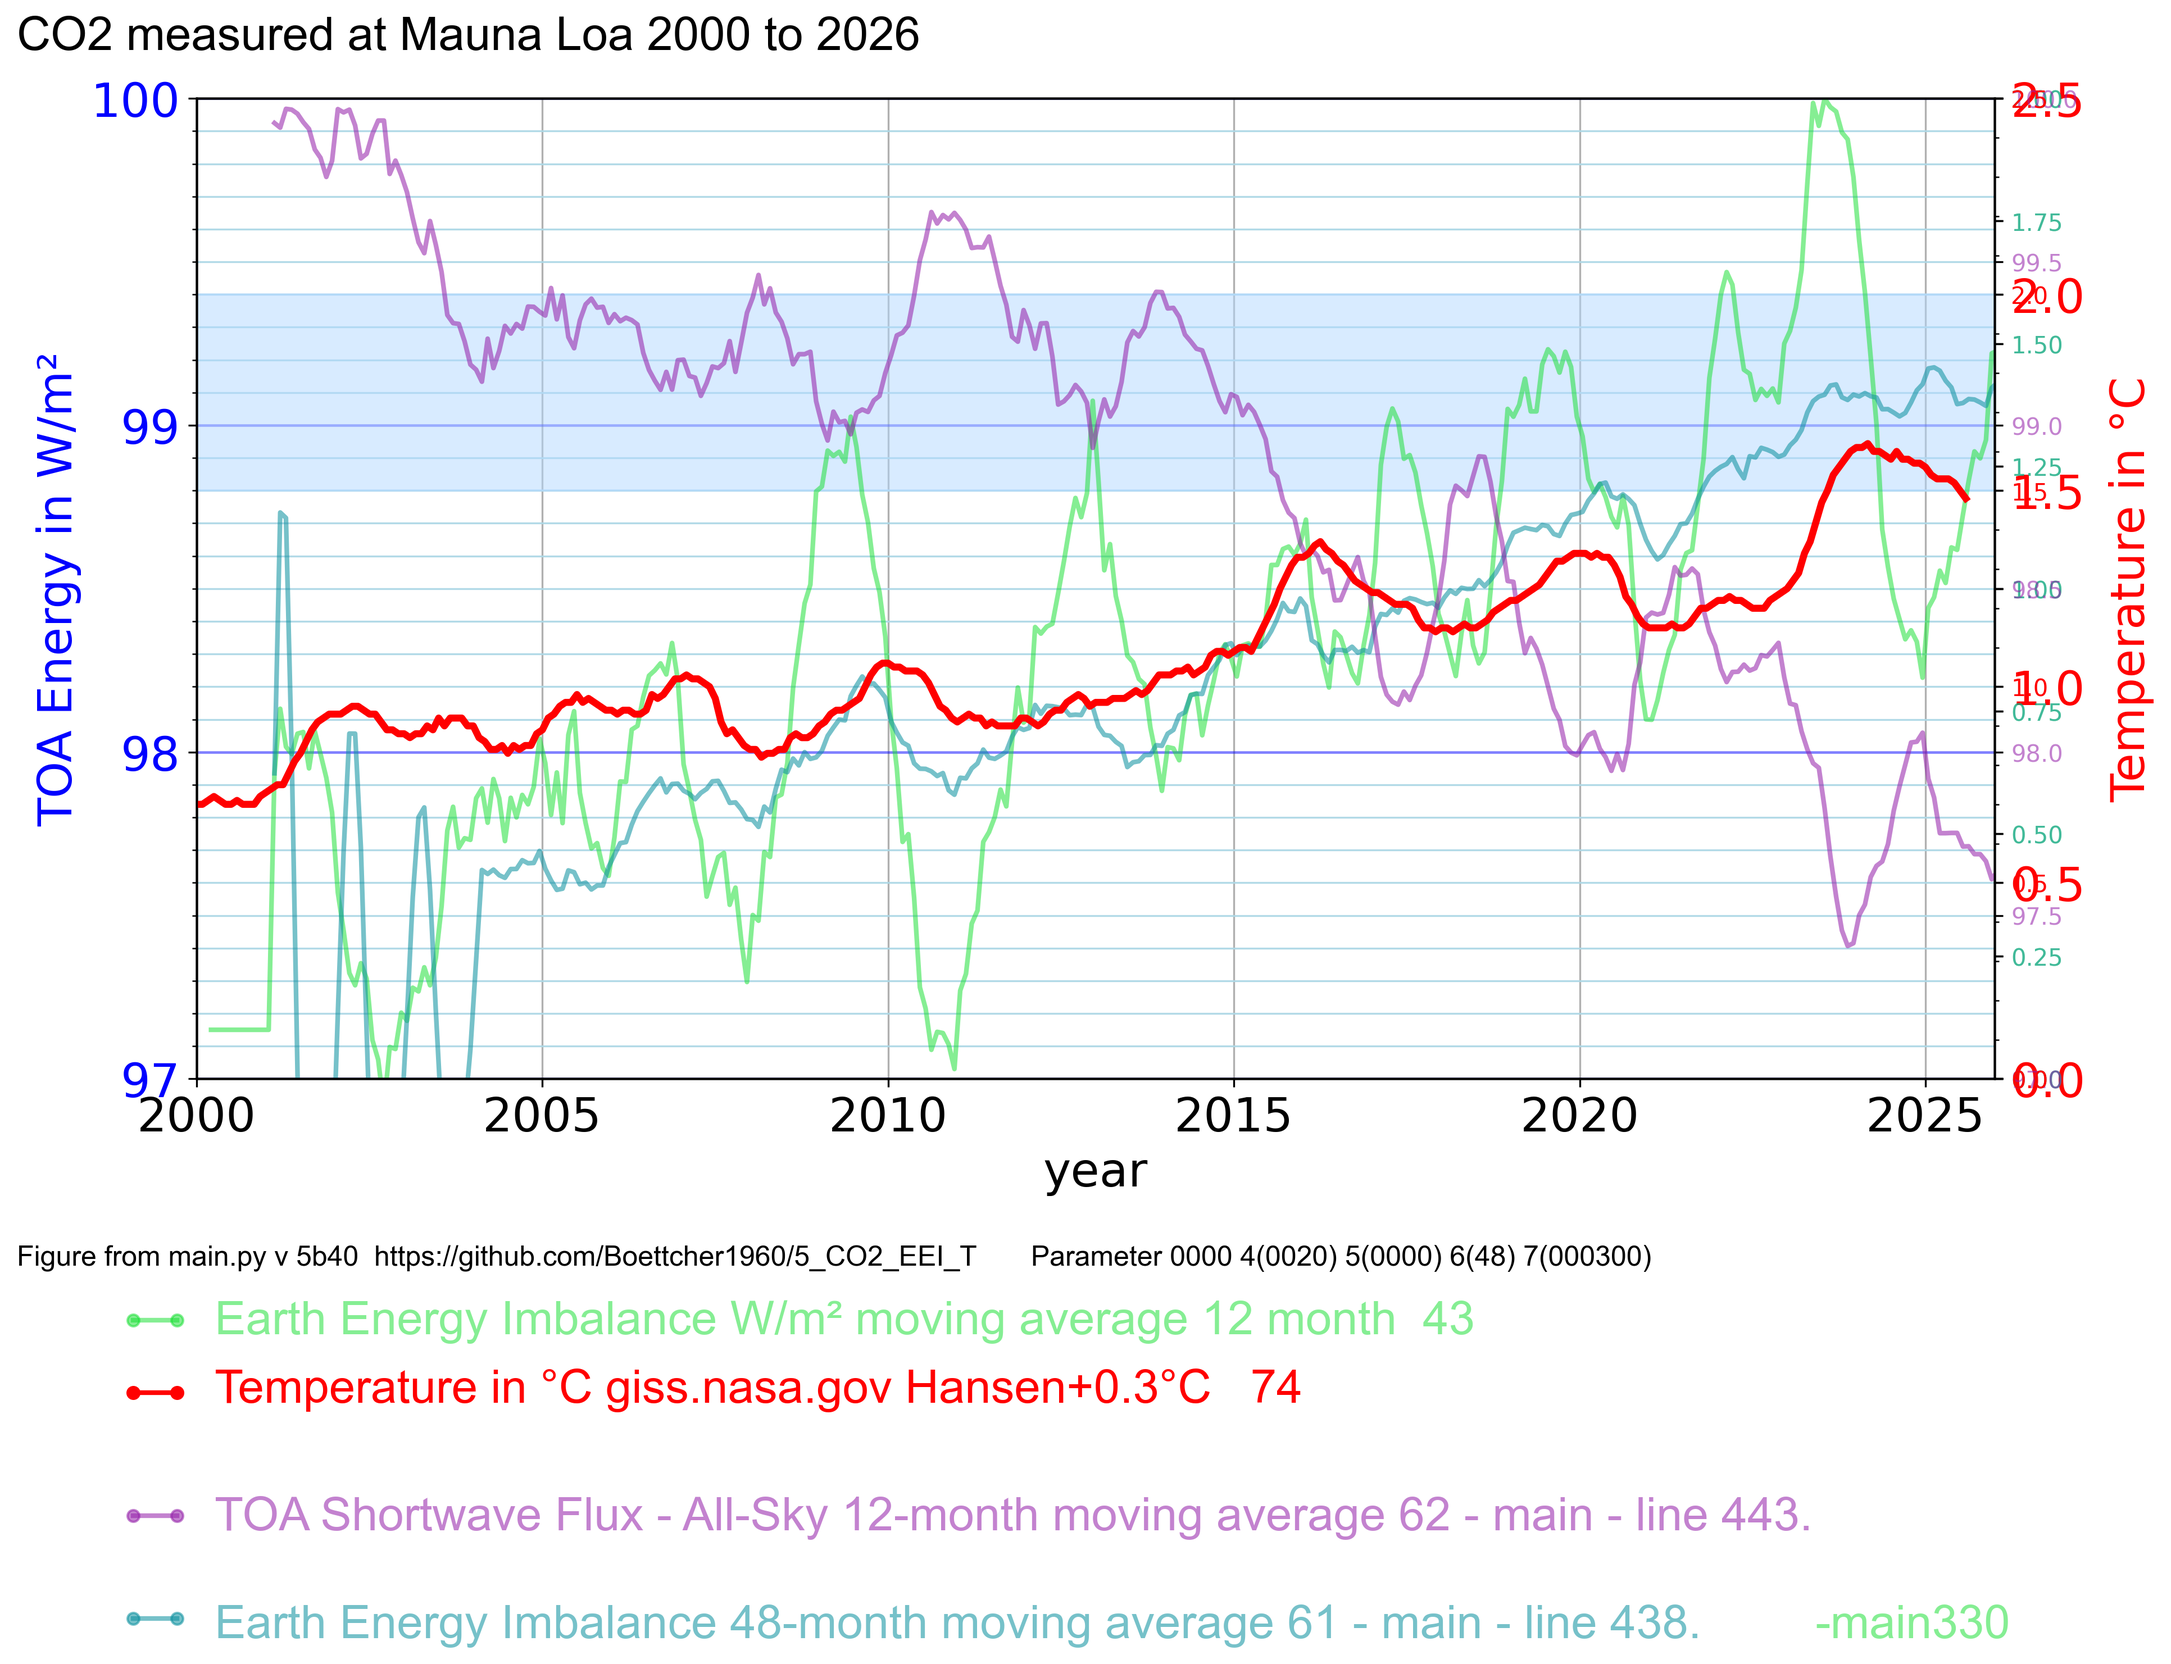
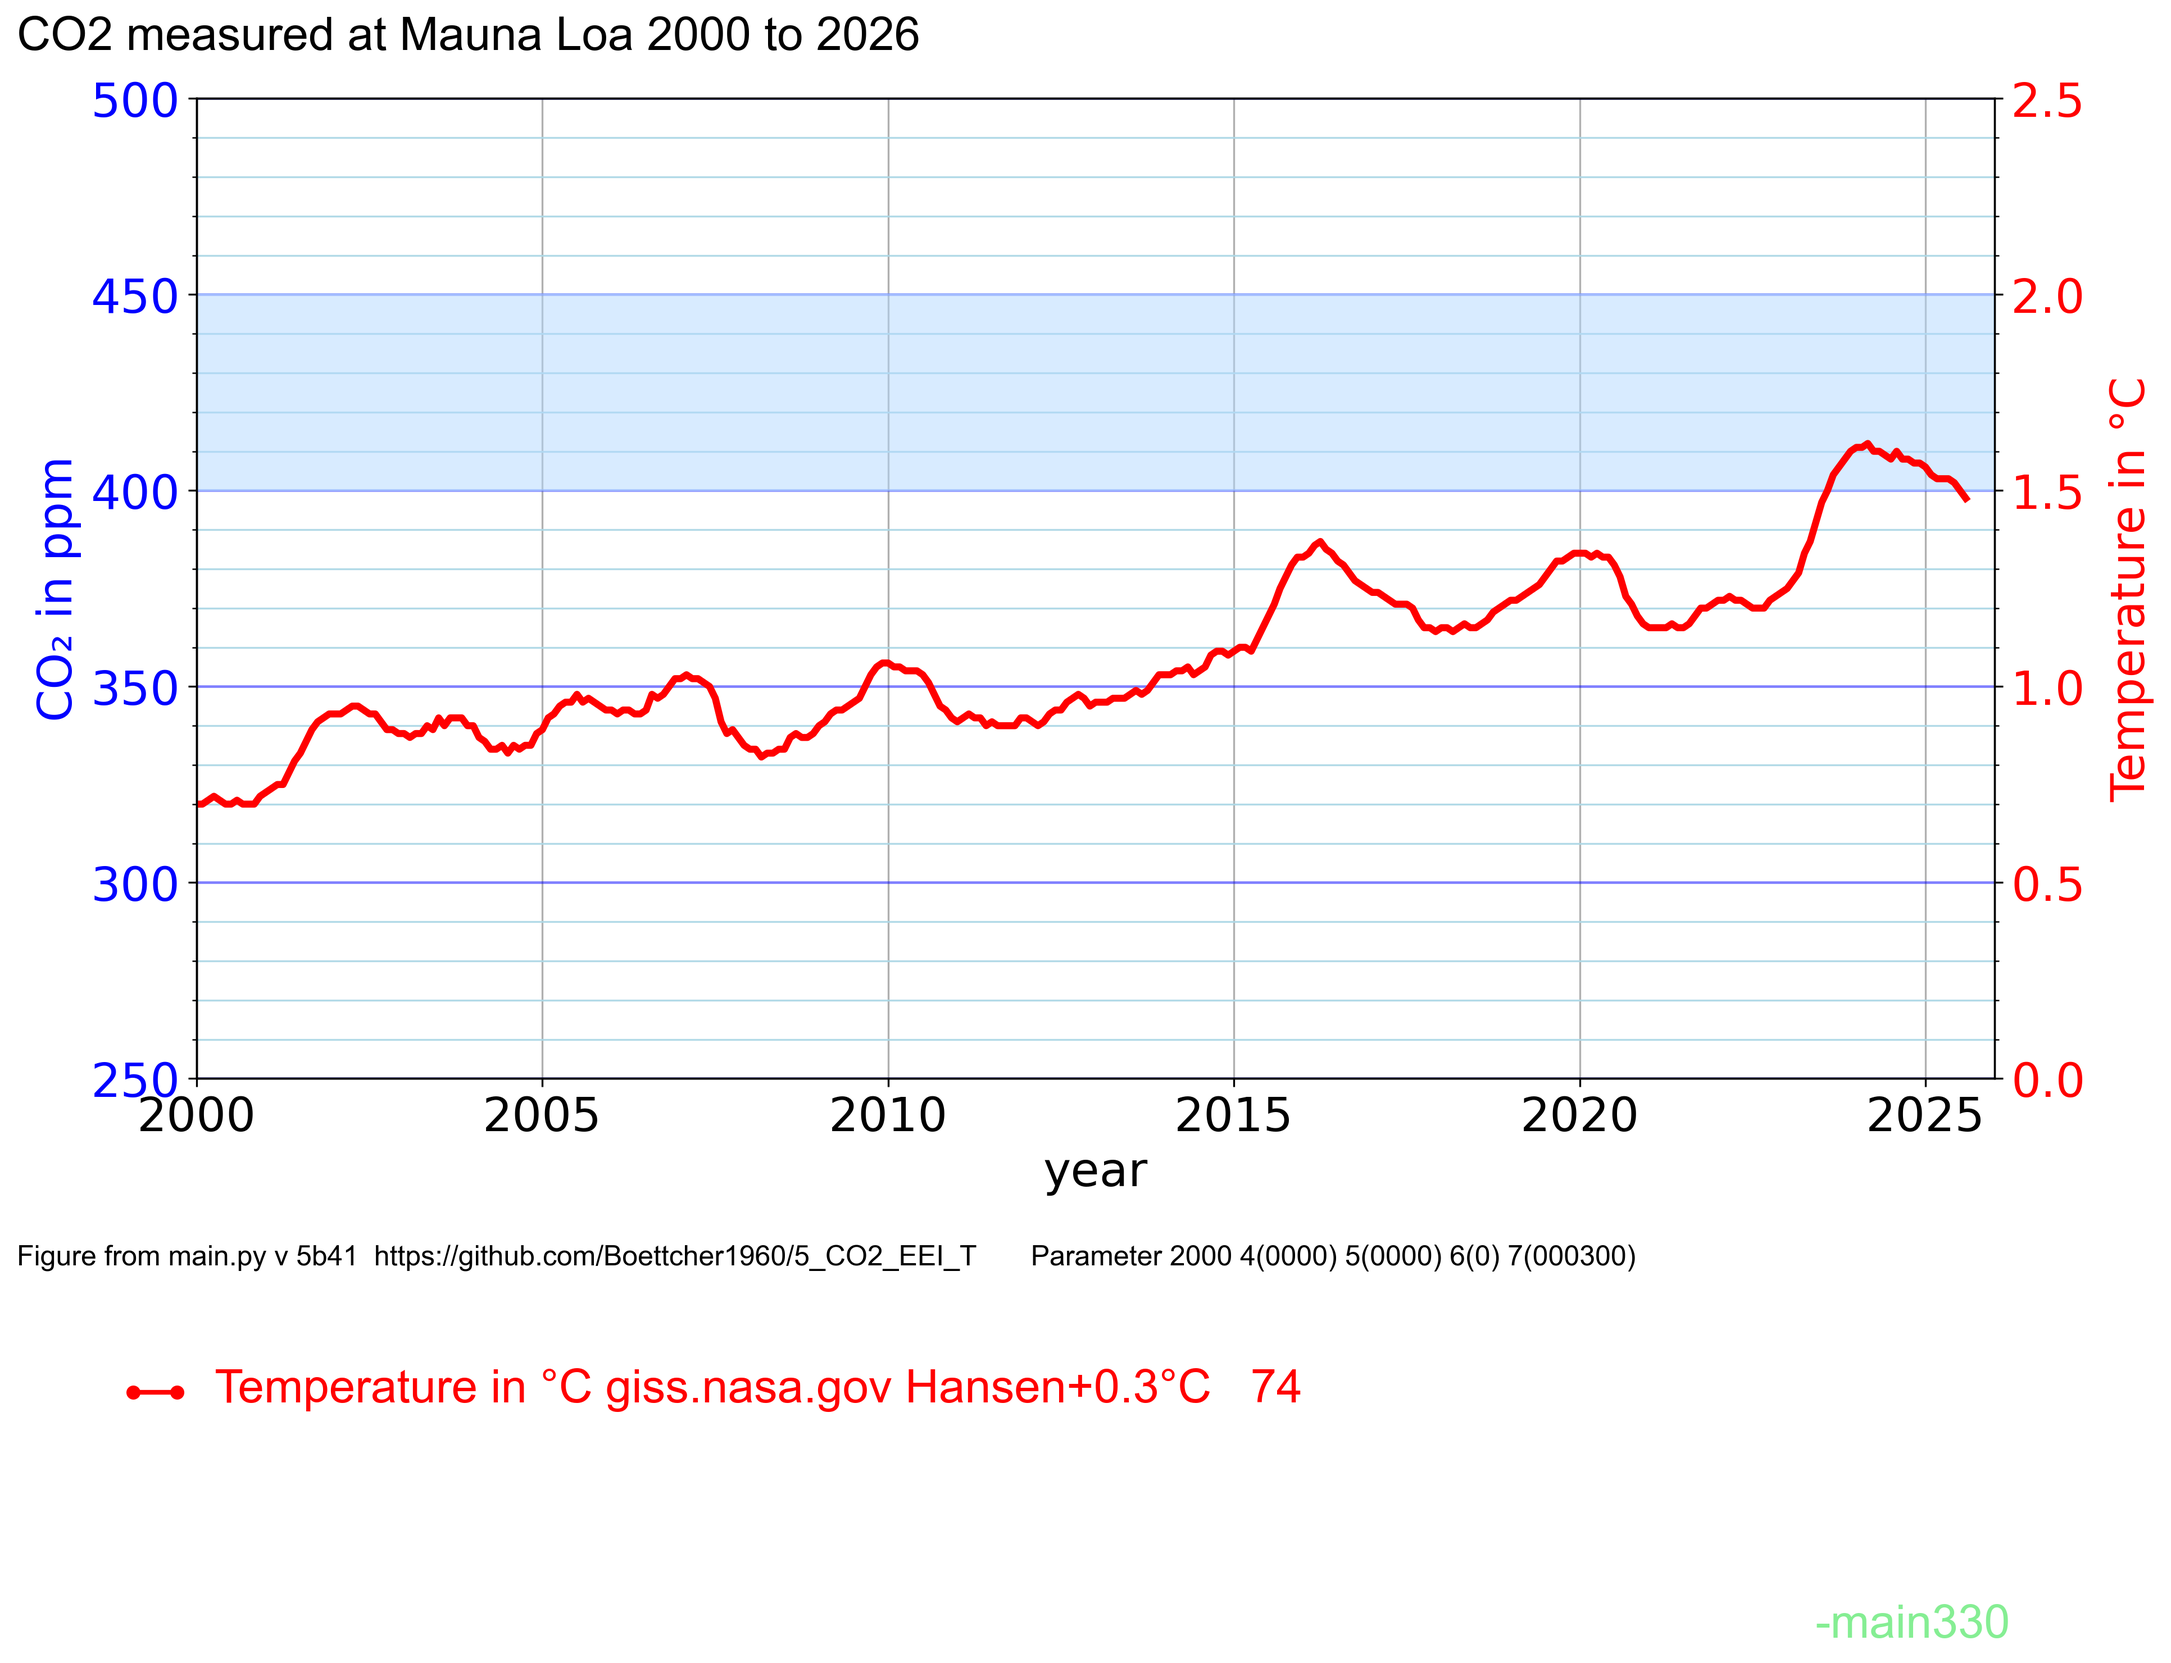
v = "5b41" #  test old plots plot22_CO2_Mauna_Loa = 2

diff --git a/main.py b/main.py
@@ -1,11 +1,8 @@
 # main.py
 # part 1 configure 
-v = "5b40" #  test old plots
-#      63  TOA Longwave Flux - All-Sky
-#          CERES_EBAF-TOA_Ed4.2.1_TOA_Longwave_Flux_-_All-Sky_March-2000toJanuary-2026
-#          2026_01_TOA_Longwave_Flux_All-Sky.txt
-# 
-# ok horizontal 1.8°C line is T value
+v = "5b41" #  test old plots plot22_CO2_Mauna_Loa = 2 
+#
+#
 
 # part 2.2 plot CO2 Mauna Loa
 # part 2.3 plot23_Glen_CO2 
@@ -84,7 +81,7 @@ def get_active_temperature_axis(ax1):
     elif plot73_ECS_T > 0:
         return ax1.twinx()
     elif plot74_GIS_T > 0:
-        return ax1.twinx()
+        return ax1.twinx() # 74.1 
     elif linear_41_75 > 0:
         return ax1.twinx()
     return None
@@ -229,7 +226,7 @@ def create_temperature_plots(ax1):
         temp_axes['73'] = configure_right_y_axis(ax, y_Tmin, y_Tmax, c73, 
                                                    "Δ Temperature in °C (ECS = 4.5°C)")
     
-    if plot74_GIS_T > 0:
+    if plot74_GIS_T > 0: # 74.2
         df = pd.read_csv("csv/csv7/csv_74_gis_temperature.csv")
         ax = ax1.twinx()
         ax.plot(df["Year74"], df["GIS_temp"] + 0.3, '-', color=c74, linewidth=3)
@@ -267,11 +264,13 @@ def load_plot_data():
     data = {}
     
     # Load CO2 data if needed
-    if plot22_CO2_Mauna_Loa > 0:
+    if plot22_CO2_Mauna_Loa > 0: # 22.2
         data['co2'] = load_co2_mauna_loa(x_anf, x_end)
-    
+        if print_debug > 9:
+           print(f"main_270: plot22_CO2_Mauna_Loa 22.3 ={plot22_CO2_Mauna_Loa}")
+           print(f"main_271: Last 3 CO2 rows: {data['co2'][-3:] if len(data['co2']) >= 3 else data['co2']}")
     # Load GIS temperature data
-    if plot74_GIS_T > 0:
+    if plot74_GIS_T > 0: # 74.3
         data['gis_temp'] = load_gis_temperature()
     
     # Load CERES data
@@ -365,7 +364,7 @@ def create_plots(ax1, data):
 
 
     # Plot GIS temperature
-    if plot74_GIS_T > 0 and 'gis_temp' in data:
+    if plot74_GIS_T > 0 and 'gis_temp' in data: # 74.4
         ax74 = ax1.twinx()
         ax74.plot(data['gis_temp']["Year74"], data['gis_temp']["GIS_temp"]+0.3, '-', 
                   label="T GIS K74", color=c74, linewidth=3)
@@ -396,7 +395,7 @@ def add_text_annotations(fig, ax1, header_parameter):
         add_text_row(ax1, tr2x, tr2y, 
                     "Earth Energy Imbalance W/m² moving average 12 month  43", 
                     c43, trs)
-    elif plot74_GIS_T == 2:
+    elif plot74_GIS_T == 2: # 74.5 legend
         add_legend_line(fig, lr2x1, lr2x2, lr2y, c74)
         add_text_row(ax1, tr2x, tr2y, 
                     "Temperature in °C giss.nasa.gov Hansen+0.3°C   74", 
@@ -417,7 +416,7 @@ def add_text_annotations(fig, ax1, header_parameter):
         add_text_row(ax1, tr2x, tr3y, 
                     "Earth Energy Imbalance W/m² moving average 12 month  43", 
                     c43, trs)
-    elif plot74_GIS_T == 3:
+    elif plot74_GIS_T == 3: # 74.6
         add_legend_line(fig, lr2x1, lr2x2, lr3y, c74)
         add_text_row(ax1, tr2x, tr3y, 
                     "Temperature in °C giss.nasa.gov Hansen+0.3°C   74", 
@@ -506,7 +505,7 @@ def main():
     # Add vertical bands
     add_vertical_bands(ax1, C280)
     
-    # Add temperature band if temperature plots are active
+    # Add temperature band if temperature plots are active # 74.9
     if plot71_temperature > 0 or plot72_AESS_T > 0 or plot73_ECS_T > 0 or plot74_GIS_T > 0:
         if print_debug > 13:
             print(f"main_420: bug6 temperature band on left y axis only plot74_GIS_T={plot74_GIS_T} {'='*5}")

diff --git a/config.py b/config.py
@@ -18,7 +18,7 @@
 
 # 8.3 print the left y axis 
 # Axis mode y axis left
-yl_mode = 6  # 6 TOA energy in W/m2 y axis left mode
+yl_mode = 2  # 6 TOA energy in W/m2 y axis left mode
 # 8.5 configure the right axis legend 
 # Axis mode y axis right
 yr_mode = 7  # 7 Temperature in °C y axis right mode
@@ -34,14 +34,14 @@ yr_mode = 7  # 7 Temperature in °C y axis right mode
 
 
 # Plot configuration flags
-plot22_CO2_Mauna_Loa = 0
+plot22_CO2_Mauna_Loa = 2
 plot23_Glen_CO2 = 0
 plot25_long_CO2 = 0
 plot34_CO2_emission = 0
 
 part41_ceres_eei = 0  # print EEI 12 month running mean. Info in line 3 below the plot
 part42_ceres_eei = 0  # 3,4 print EEI 48 month running mean. Info in line 4 below the plot
-part43_ceres_eei = 2  # 43.1 2=left y axis 3,4 print EEI 12 month running mean.
+part43_ceres_eei = 0  # 43.1 2=left y axis 3,4 print EEI 12 month running mean.
 part44_ceres_eei = 0 # 47 is local 
 
 plot52_delta_CO2_red_bars = 0
@@ -49,8 +49,8 @@ plot53_CO2_orange2025 = 0
 plot54_Glen_delta_on = 0
 plot55_population_on = 0
 
-play_61_CERES = 48     # 12 CERES EEI 12 month like part41_ceres_eei 
-play_62_CERES = 12     # 12 CERES EEI 12 month like part41_ceres_eei 
+play_61_CERES = 0     # 12 CERES EEI 12 month like part41_ceres_eei 
+play_62_CERES = 0     # 12 CERES EEI 12 month like part41_ceres_eei 
 
 plot71_temperature = 0
 plot72_AESS_T = 0
@@ -147,6 +147,14 @@ print_debug = 10 # print some items
 
 """
 
+
+-----------------------v = "5b4
+
+
+-----------------------v = "5b41
+plot22_CO2_Mauna_Loa = 2 
+plot74_GIS_T = 3
+
 -----------------------v = "5b40" #  test old plots
 # Plot configuration flags
 plot22_CO2_Mauna_Loa = 0
@@ -175,7 +183,7 @@ linear_41_75 = 0
 plot76_my_T = 0
 plot_T_77 = 0
 parameter84_save_png = 8
-
+-----------------------v = "5b40" #  test old plots
 
 
 
@@ -271,6 +279,13 @@ parameter84_save_png = 8
 #      63  TOA Longwave Flux - All-Sky
 #          CERES_EBAF-TOA_Ed4.2.1_TOA_Longwave_Flux_-_All-Sky_March-2000toJanuary-2026
 #          2026_01_TOA_Longwave_Flux_All-Sky.txt
+
+#      63  TOA Longwave Flux - All-Sky
+#          CERES_EBAF-TOA_Ed4.2.1_TOA_Longwave_Flux_-_All-Sky_March-2000toJanuary-2026
+#          2026_01_TOA_Longwave_Flux_All-Sky.txt
+# 
+# ok horizontal 1.8°C line is T value
+
 
 # 
 #1E318 

diff --git a/data_processing.py b/data_processing.py
@@ -71,7 +71,7 @@ def create_running_average(input_csv,
     return df_output
 
 
-def load_co2_mauna_loa(x_anf, x_end):
+def load_co2_mauna_loa(x_anf, x_end): # 22.4
     """Load Mauna Loa CO2 data"""
     co2_values = [
         316.91, 317.64, 318.45, 318.99, 319.62, 320.04, 321.38, 322.16, 323.04, 324.62,
